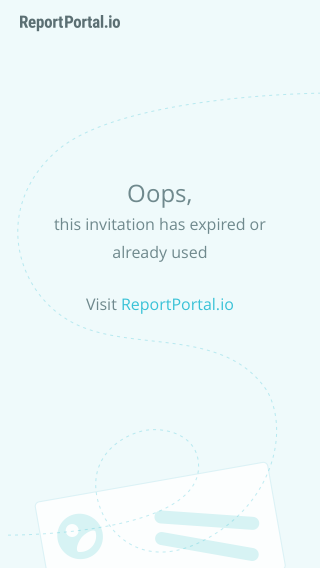
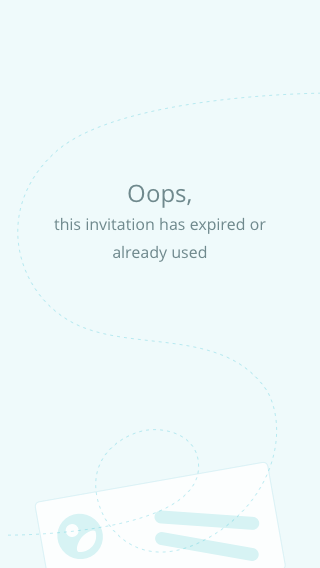
EPMRPP-23743. Registration form. Added direct link to rp.io.

Changed region(s): [[0.2812, 0.5088, 0.7188, 0.5687], [0.0625, 0.0299, 0.375, 0.0599], [0.375, 0.419, 0.4062, 0.4489]]

diff --git a/src/main/resources/public/scss/registration/fail-invitation.scss b/src/main/resources/public/scss/registration/fail-invitation.scss
@@ -20,6 +20,7 @@
  */
 
 .invitation-fail {
+  position: relative;
   width: 1000px;
   height: 100%;
   margin: 0 auto;
@@ -31,8 +32,49 @@
   background-size: contain;
 
   @media (max-width: 1010px) {
-    left: 0px;
+    left: 0;
     width: 320px;
     background-image: url('../../img/registration/invitation-fail-mobile.png');
+  }
+
+  .logo-label {
+    position: absolute;
+    width: 141px;
+    height: 23px;
+    top: 31px;
+    left: 59px;
+    background-image: url('../../img/registration/logo.png');
+    background-repeat: no-repeat;
+    -webkit-background-size: 100%;
+    background-size: 100%;
+
+    @media (max-width: 1010px) {
+      top: 15px;
+      left: 20px;
+      width: 100px;
+      height: 17px;
+    }
+  }
+
+  .backlink {
+    position: absolute;
+    top: 400px;
+    left: 50%;
+    width: 50%;
+    text-align: center;
+    font-family: $OpenSansRegular, sans-serif;
+    font-size: 16px;
+    span {
+      color: #5d777a;
+    }
+    a {
+      color: #32b6ce;
+    }
+
+    @media (max-width: 1010px) {
+      top: 290px;
+      left: 0;
+      width: 100%;
+    }
   }
 }

diff --git a/src/main/resources/public/templates/register/tpl-register-messages.html b/src/main/resources/public/templates/register/tpl-register-messages.html
@@ -1,1 +1,4 @@
-<div class="invitation-fail"></div>
+<div class="invitation-fail">
+    <div class="logo-label"></div>
+    <div class="backlink"><span>Visit </span><a href="http://reportportal.io">ReportPortal.io</a></div>
+</div>
